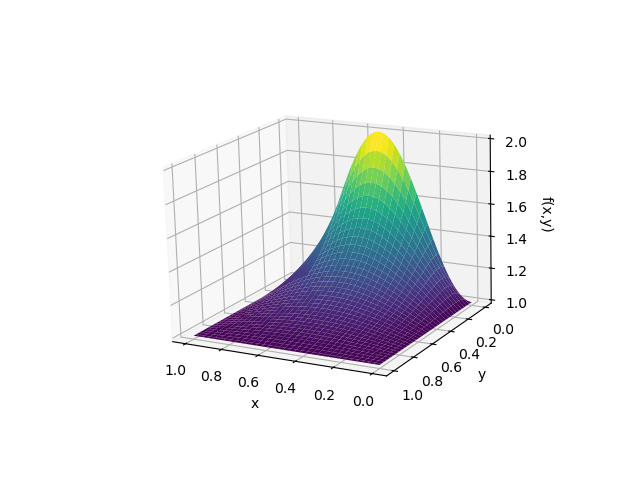
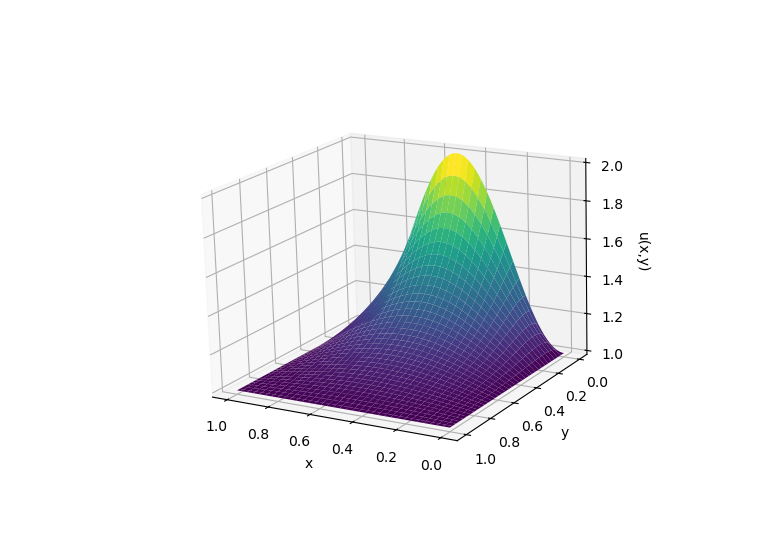
tracé solution problème

Changed region(s): [[0.25, 0.25, 0.875, 0.8438]]

diff --git a/plot.py b/plot.py
@@ -9,7 +9,6 @@ Ny = 100
 data = "data_gauss-seidel_para.csv"
 
 Z = np.loadtxt(data, delimiter=",")
-print(Z)
 
 y = np.linspace(0,b,Nx+2)
 x = np.linspace(0,a,Ny+2)
@@ -23,6 +22,6 @@ ax.plot_surface(X, Y, Z, cmap='viridis')
 
 ax.set_xlabel("x")
 ax.set_ylabel("y")
-ax.set_zlabel("f(x,y)")
+ax.set_zlabel("u(x,y)")
 
 plt.show()
